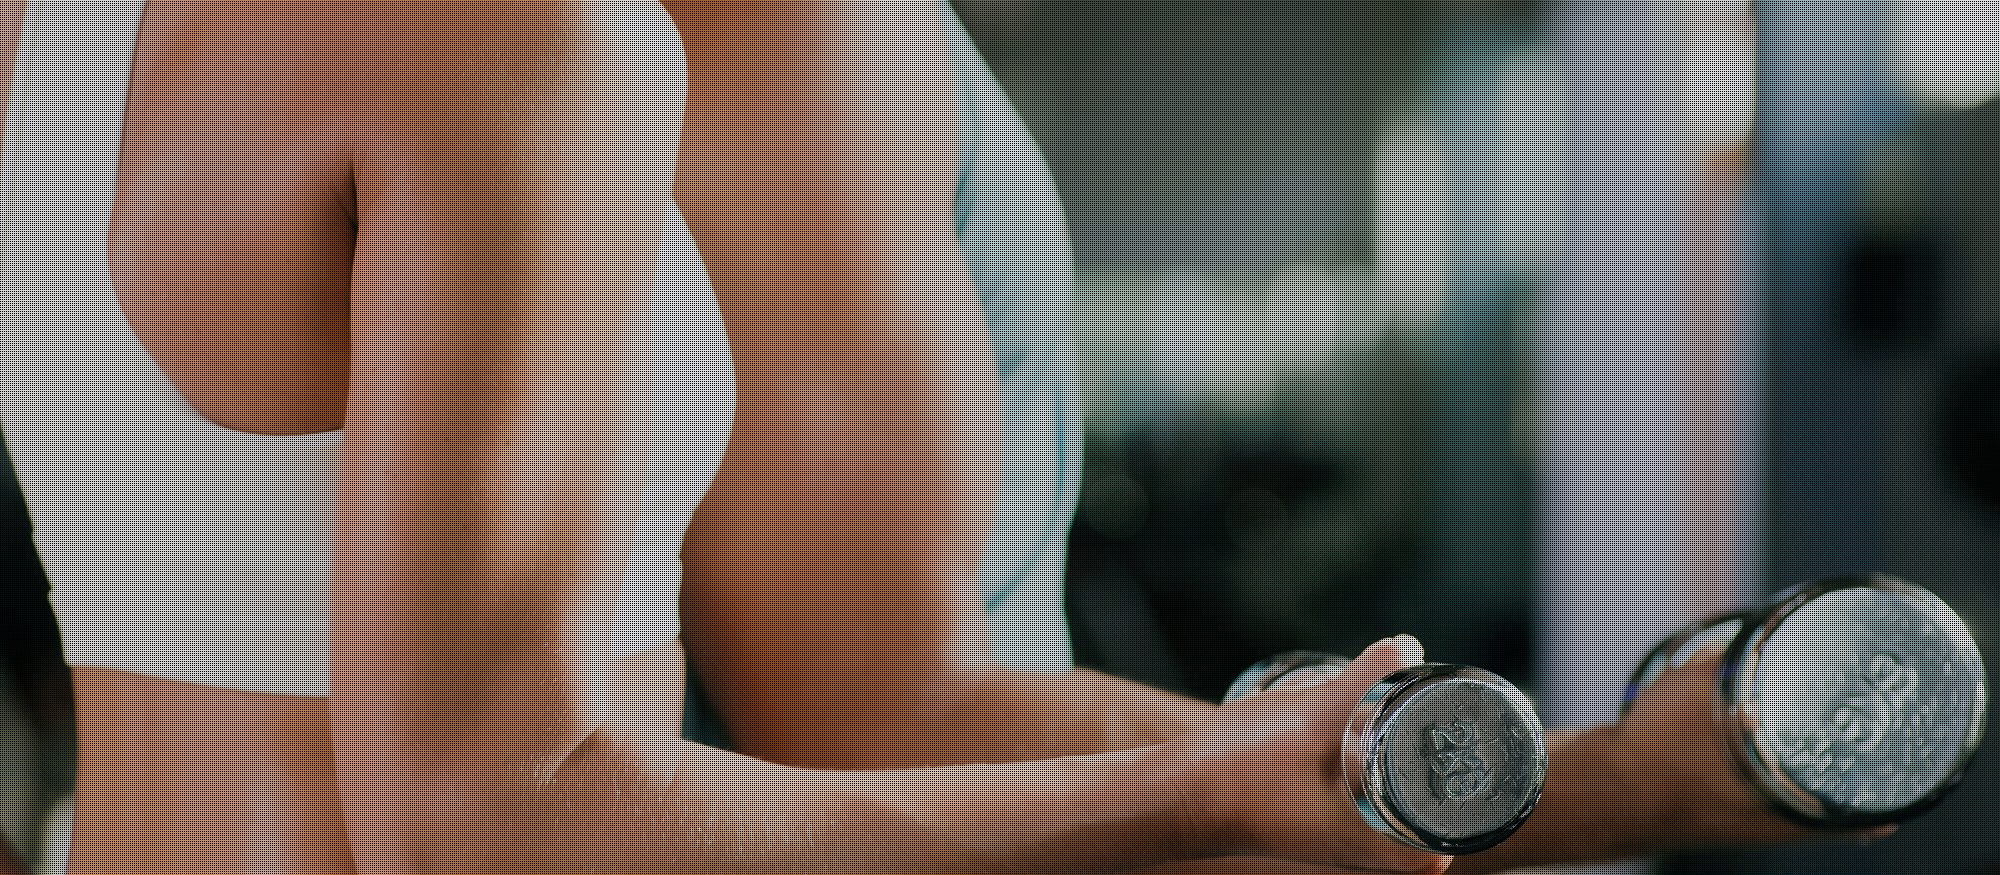
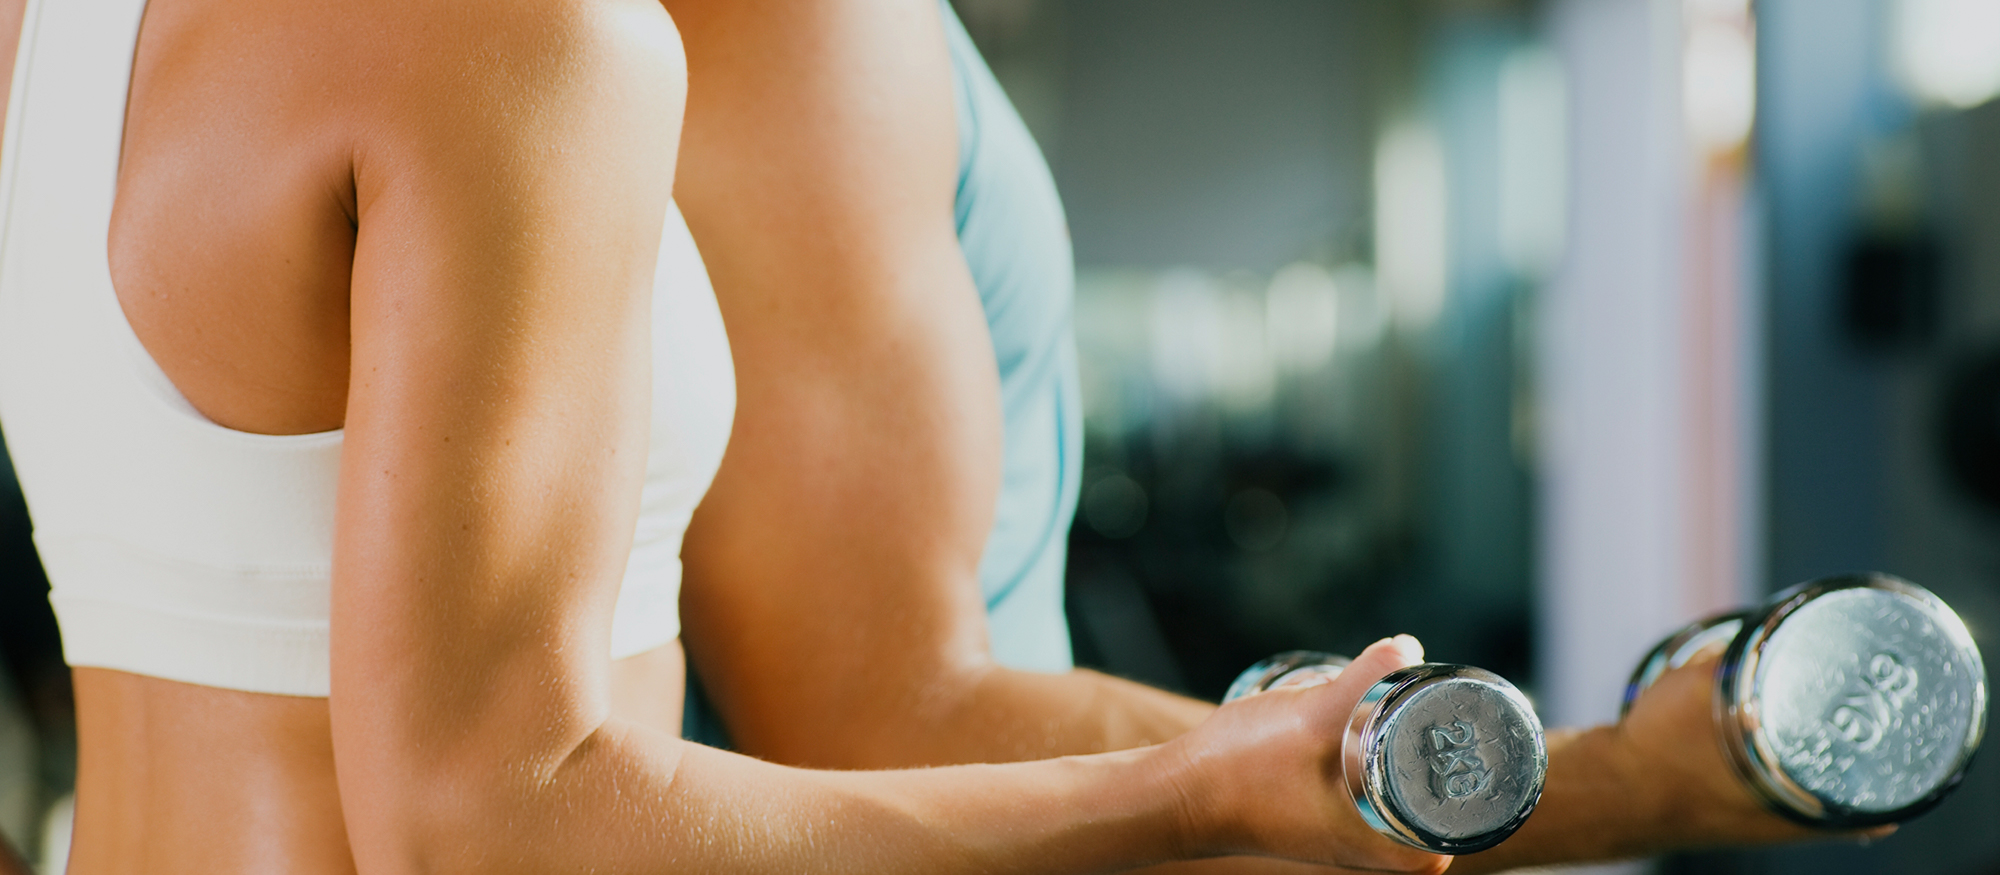
slider

Changed region(s): [[0.0, 0.0, 1.0, 1.0]]

diff --git a/resources/index.html b/resources/index.html
@@ -3,15 +3,61 @@ ${require('./header.html')}
             <!-- site content -->
 			<main class="site-content">
 				<!--
-				<section class="file-section">
-					<div class="container">
-						<div class="row">
-							<div class="col col-12">
-								<h1 class="h1">This is index.html</h1>
+				<section class="section slider section-bg">
+					<div class="overlay">
+						<div class="container full-h flex-y-c">
+							<div class="row">
+								<div class="col col-10 margin-auto inline-x-c">
+									<q class="c-white">Keine Stunde im Leben, die man im Sport verbringt, ist verloren.</q>
+									<p class="c-white">Winston Spencer Churchill (1874-1965)</p>
+								</div>
 							</div>
 						</div>
 					</div>
 				</section>
+			-->
+			<section class="section">
+				<div class="slider">
+					<div class="slider-item slider-item-1 section-bg fade">
+						<div class="block-c">
+							<q class="c-white inline-x-c">Keine Stunde im Leben, die man im Sport verbringt, ist verloren.</q>
+							<p class="c-white inline-x-c">Winston Spencer Churchill (1874-1965)</p>
+						</div>
+					</div>
+					<div class="slider-item slider-item-2 section-bg fade">
+						<div class="block-c">
+							<q class="c-white inline-x-c">Keine Stunde im Leben, die man im Sport verbringt, ist verloren.</q>
+							<p class="c-white inline-x-c">Winston Spencer Churchill (1874-1965)</p>
+						</div>
+					</div>
+					<div class="slider-item slider-item-3 section-bg fade">
+						<div class="block-c">
+							<q class="c-white inline-x-c">Keine Stunde im Leben, die man im Sport verbringt, ist verloren.</q>
+							<p class="c-white inline-x-c">Winston Spencer Churchill (1874-1965)</p>
+						</div>
+					</div>
+					<div class="slider-item slider-item-4 section-bg fade">
+						<div class="block-c">
+							<q class="c-white inline-x-c">Keine Stunde im Leben, die man im Sport verbringt, ist verloren.</q>
+							<p class="c-white inline-x-c">Winston Spencer Churchill (1874-1965)</p>
+						</div>
+					</div>
+					<!-- The dots/circles -->
+					<div class="slider-controls block-y-b block-x-c z-2">
+					  <span class="dot"></span> 
+					  <span class="dot"></span> 
+					  <span class="dot"></span>
+					  <span class="dot"></span>
+					</div>
+					<a href="#portrait">
+						<div class="arrow-down block-y-b block-x-c bg-white z-2">
+							<img src="${require(`./img/arrow-down.png`)}" alt="Arrow down" class="block-c">
+						</div>
+					</a>
+				</div>
+			</section>
+
+				<!--
 				<section class="test-section">
 					<div class="container">
 						<div class="row">
@@ -24,7 +70,7 @@ ${require('./header.html')}
 						</div>
 					</div>
 				</section>
-			-->
+				-->
 			</main>
             <!-- /site content -->
 

diff --git a/resources/scss/_site-content.scss b/resources/scss/_site-content.scss
@@ -2,7 +2,7 @@
 
 // General
 .site-content { 
-	padding-top: 100px;
+	padding-top: 75px;
 	padding-bottom: 50px;
 }
 
@@ -24,9 +24,67 @@
   background-color: $c_accent;
 }
 
-.lightslider-item,
-.custom-item {
-  width: 500px;
-  height: 500px;
-  background-image: url(../img/test-image.jpg);
+.slider {
+  height: calc(100vh - 75px);
+  width: 100vw;
+  position: relative;
+}
+.slider-item {
+  display: none;
+  width: 100%;
+  height: 100%;
+}
+.slider-text-wrap {
+  width: 50%;
+  height: 100%;
+}
+.slider-item-1 { background: url("../img/slider-img1.jpg"); }
+.slider-item-2 { background: url("../img/slider-img2.jpg"); }
+.slider-item-3 { background: url("../img/slider-img3.jpg"); }
+.slider-item-4 { background: url("../img/slider-img4.jpg"); }
+.full-h { height: 100%; }
+.z-2 { z-index: 2; }
+
+/* The dots/bullets/indicators */
+.slider-controls {
+  position: absolute;
+  margin-bottom: 100px;
+}
+.dot {
+  cursor: pointer;
+  height: 15px;
+  width: 15px;
+  margin: 0 2px;
+  background-color: $c_white;
+  border-radius: 50%;
+  display: inline-block;
+  transition: background-color 0.6s ease;
+}
+
+.active,
+.dot:hover { background-color: $c_accent; }
+
+/* Fading animation */
+.fade {
+  -webkit-animation-name: fade;
+  -webkit-animation-duration: 1s;
+  animation-name: fade;
+  animation-duration: 1s;
+}
+
+@-webkit-keyframes fade {
+  from {opacity: .75} 
+  to {opacity: 1}
+}
+
+@keyframes fade {
+  from {opacity: .75} 
+  to {opacity: 1}
+}
+
+.arrow-down {
+  width: 75px;
+  height: 26px;
+  -webkit-clip-path: polygon(15% 0%, 85% 0%, 100% 100%, 0% 100%);
+  clip-path: polygon(15% 0%, 85% 0%, 100% 100%, 0% 100%);
 }

diff --git a/resources/scss/_header-footer.scss b/resources/scss/_header-footer.scss
@@ -1,6 +1,8 @@
 /* Site header and footer */
 
 // Site Header
+$header_height: 75px;
+
 .site-header {
 	position: fixed;
 	width: 100%;
@@ -11,7 +13,7 @@
   li:last-child { padding-right: 0; }
 }
 .not--top .site-header {
-	height: 60px;
+	height: $header_height - 15px;
 	opacity: .8;
 }
 .mobile-menu-icon {
@@ -49,6 +51,7 @@
 
 // Site Footer
 $footer_height: 70px;
+
 .site-footer {
 	min-height: $footer_height;
 	.inner {
@@ -57,14 +60,6 @@ $footer_height: 70px;
 		padding-top: 10px;
 		padding-bottom: 10px;
 	}
-}
-@media(min-width: $breakpoint_xl) {
-	.hide-xl { display: none; }
-	.show-xl { display: block; }
-}
-@media(min-width: $breakpoint_lg) and (max-width: $breakpoint_xl) {
-	.hide-lg { display: none; }
-	.show-lg { display: block; }
 }
 @media(min-width: $breakpoint_md) and (max-width: $breakpoint_lg) {
 	.inline-x-c-md { text-align: center; }
@@ -75,7 +70,7 @@ $footer_height: 70px;
 	}
 }
 @media(min-width: $breakpoint_md) {
-	.site-header { height: 75px; }
+	.site-header { height: $header_height; }
 }
 @media(max-width: $breakpoint_md) {
 	.header-menu {

diff --git a/resources/js/app.js b/resources/js/app.js
@@ -243,4 +243,26 @@ $(document).ready(function() {
 
   $(".site-header").css({'height': "75px" + $('.header-menu').height()});
 
+  // Slider
+  var slideIndex = 0;
+  showSlides();
+
+  function showSlides() {
+      let i,
+      slides = document.getElementsByClassName("slider-item"),
+      dots = document.getElementsByClassName("dot");
+      for (i = 0; i < slides.length; i++) {
+          slides[i].style.display = "none"; 
+      }
+      if (slideIndex > slides.length) {slideIndex = 1}    
+      for (i = 0; i < dots.length; i++) {
+          dots[i].className = dots[i].className.replace(" active", "");
+      }
+      slideIndex++;
+      if (slideIndex > slides.length) {slideIndex = 1}
+      dots[slideIndex-1].className += " active";
+      slides[slideIndex-1].style.display = "block";
+      setTimeout(showSlides, 2000); // Change image every 2 seconds
+  } 
+
 });

diff --git a/resources/scss/_typography.scss b/resources/scss/_typography.scss
@@ -25,6 +25,19 @@
   a { color: $c_black; }
 }
 
+// Slider section
+.slider {
+  font-weight: 600;
+  q {
+    font-size: 60px;
+    line-height: 1.2;
+  }
+  p {
+    margin-top: 40px;
+    font-size: 30px;
+  }
+}
+
 // Footer
 .site-footer {
   color: $c_additional_footer;
